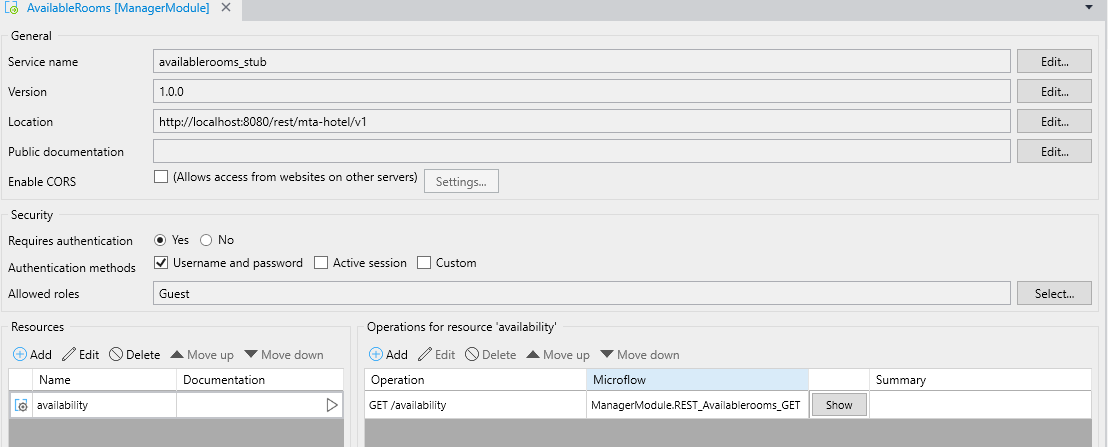
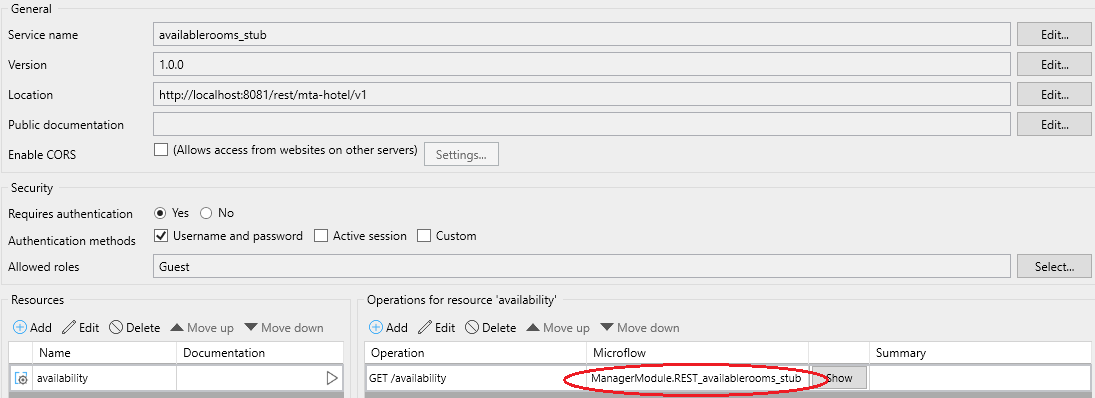
stub

diff --git a/additional/01-howtos/test-api.md b/additional/01-howtos/test-api.md
@@ -34,6 +34,8 @@ As shown the Constant defaults to the localhost. The stubbed REST service is ind
 
 ![Test API localhost](test-api-localhost.png)
 
+The stub REST service microflow (highlighted in the image) will always return the same result.
+
 To use the stub, simply do not change the value of the Constant when running the App.<br/>
 To use a production REST service, set the value of the Constant when deploying.
 
